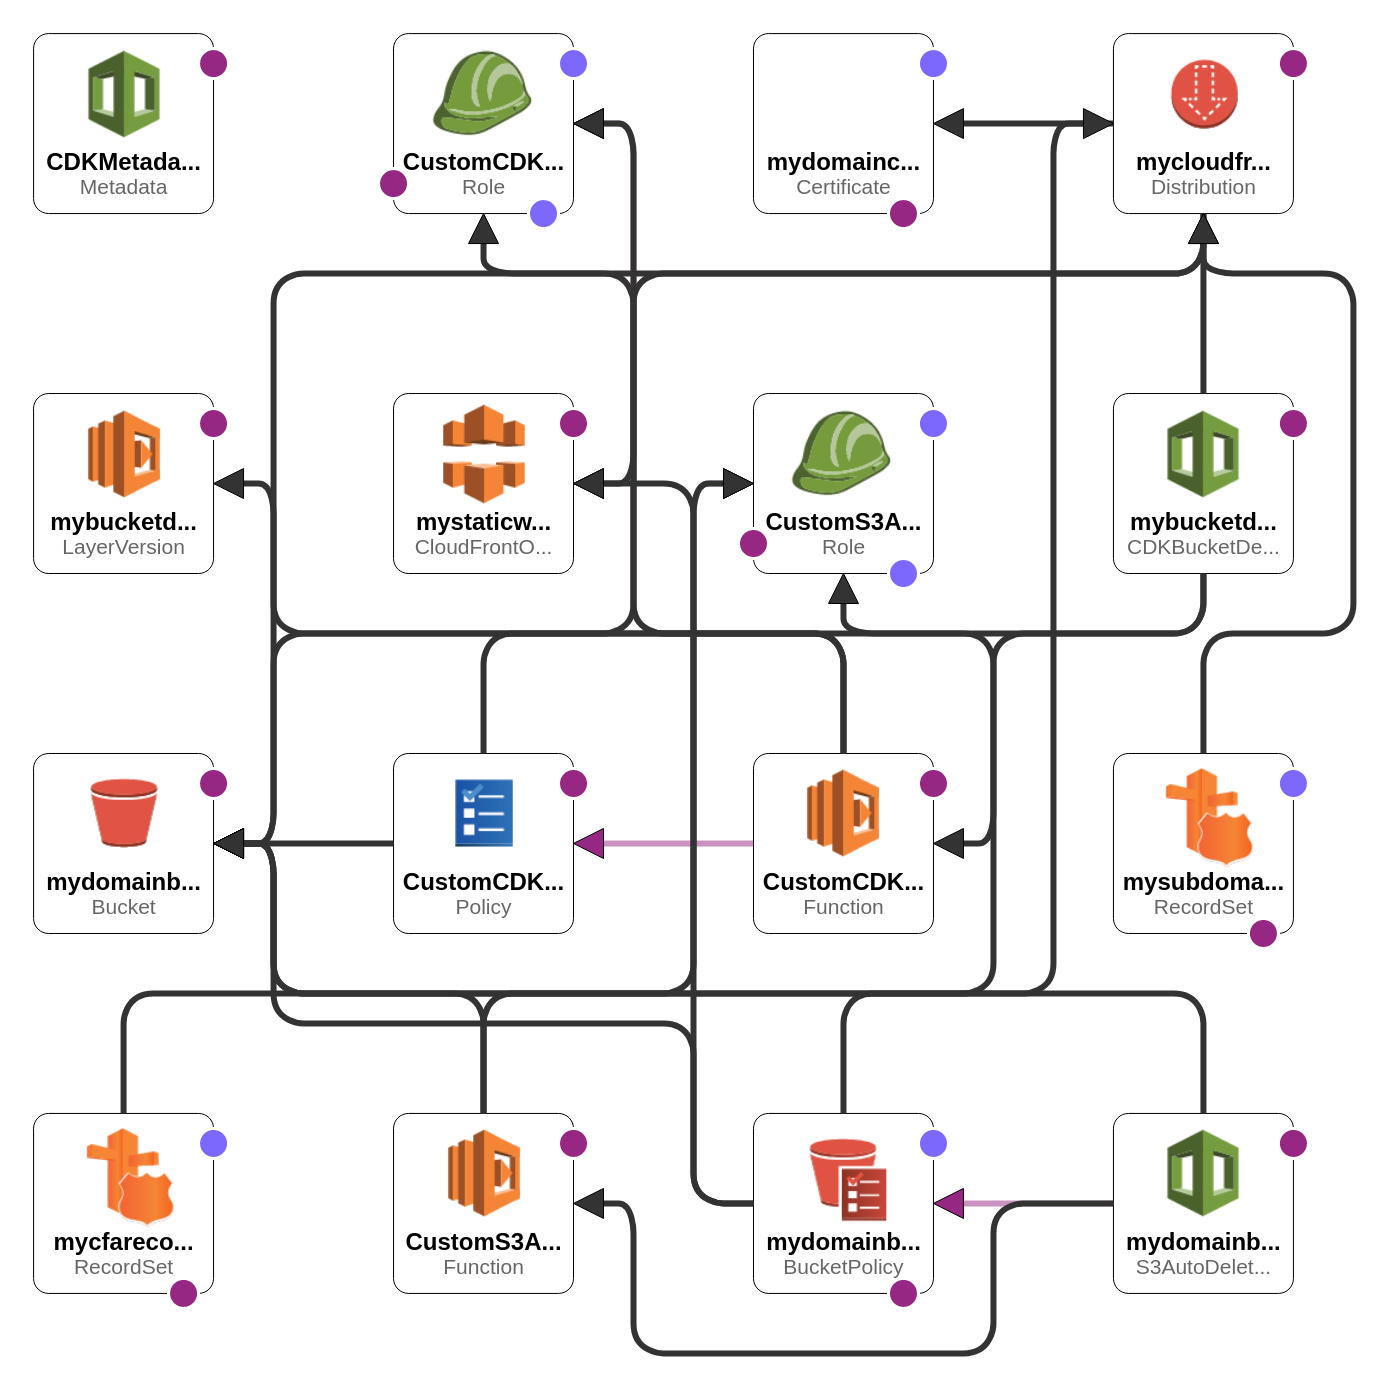
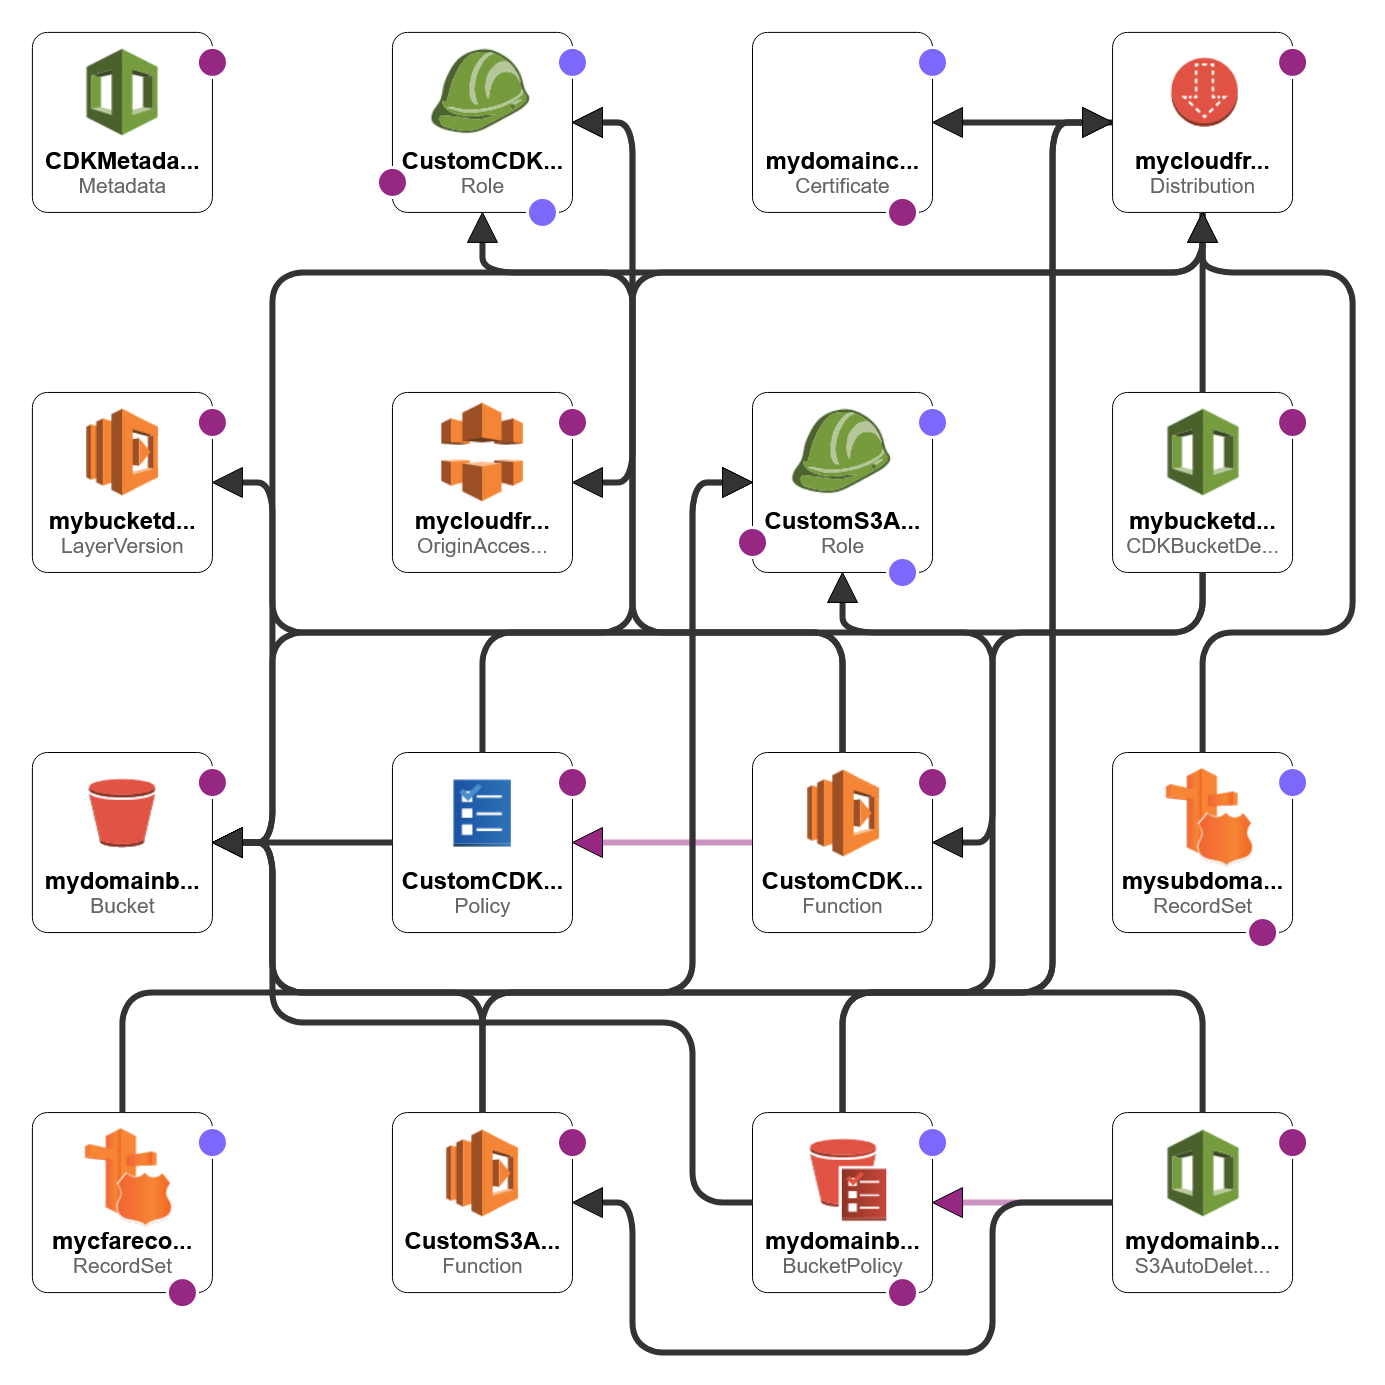
Update README and embedded image (#17)

diff --git a/README.md b/README.md
@@ -19,7 +19,7 @@ The table below shows all the *relevant* resources deployed by this CDK stack.
 | S3 bucket | `thatsmidnight.com` | S3 bucket holding all the static files for our website |
 | Certificate | `my-domain-certificate` | The certificate that provides access to the private S3 bucket via CloudFront |
 | CloudFront Distribution | `my-cloudfront-distribution` | A CloudFront distribution to provide our web content to users with low latency via edge locations |
-| CloudFront Origin Access Identity (legacy) | `my-static-website-stack` | Access resource to send authenticated requests to the Amazon S3 origin from CloudFront |
+| CloudFront Origin Access Control | `MyCloudFrontOAC` | Access resource to send authenticated requests to the Amazon S3 origin from CloudFront |
 | Route 53 Record set | `my-cf-a-record`, `my-subdomain-cf-a-record` | Route 53 hosted zone A records for the root domain and subdomain (`www`) |
 
 ![A very clear, and not confusing at all, diagram of the CloudFormation template](resources/template1-designer.png)
@@ -59,11 +59,11 @@ When you create a distribution, you have to tell it what the **origin** is. In t
 
 When you put all these resources together, you can rest easy knowing that any user accessing your content will be able to do it quickly, safely, and securely.
 
-... Except for the fact that we're using [OAI and not OAC](https://docs.aws.amazon.com/AmazonCloudFront/latest/DeveloperGuide/private-content-restricting-access-to-s3.html).
+... Except for the fact that we were using [OAI and not OAC](https://docs.aws.amazon.com/AmazonCloudFront/latest/DeveloperGuide/private-content-restricting-access-to-s3.html).
 
 ## OAI vs OAC
 
-While our users are still being authenticated, **origin access identity** (OAI) is legacy and **origin access control** (OAC) is recommended. The specific reasons why are covered [here](https://docs.aws.amazon.com/AmazonCloudFront/latest/DeveloperGuide/private-content-restricting-access-to-s3.html). None of this should matter to you, however, if your origin is an S3 bucket that's configured *as a [website endpoint](https://docs.aws.amazon.com/AmazonS3/latest/userguide/WebsiteEndpoints.html)*, this doesn't apply to you.
+**Origin access identity** (OAI) is a legacy resource and **origin access control** (OAC) is recommended. The specific reasons why are covered [here](https://docs.aws.amazon.com/AmazonCloudFront/latest/DeveloperGuide/private-content-restricting-access-to-s3.html). None of this should matter to you, however, if your origin is an S3 bucket that's configured *as a [website endpoint](https://docs.aws.amazon.com/AmazonS3/latest/userguide/WebsiteEndpoints.html)*.
 
 Since this is on the roadmap, I'll summarize what's on the [documentation for this solution](https://docs.aws.amazon.com/AmazonCloudFront/latest/DeveloperGuide/private-content-restricting-access-to-s3.html#migrate-from-oai-to-oac):
 
@@ -74,3 +74,7 @@ Since this is on the roadmap, I'll summarize what's on the [documentation for th
 5. Test and deploy.
 6. Delete the OAI resource and corresponding policy for **OAI**.
 7. Test and deploy.
+
+This documentation provides a console/CloudFormation/CLI/API perspective on how to do this, but, when you look at the example I linked below, you'll notice that there are some steps missing.
+
+Linked [here](https://github.com/aws/aws-cdk/issues/21771#issuecomment-1567647338) is a step-by-step example of how to replace an OAI with an OAC - this is the example that I pulled from to make this switch.
